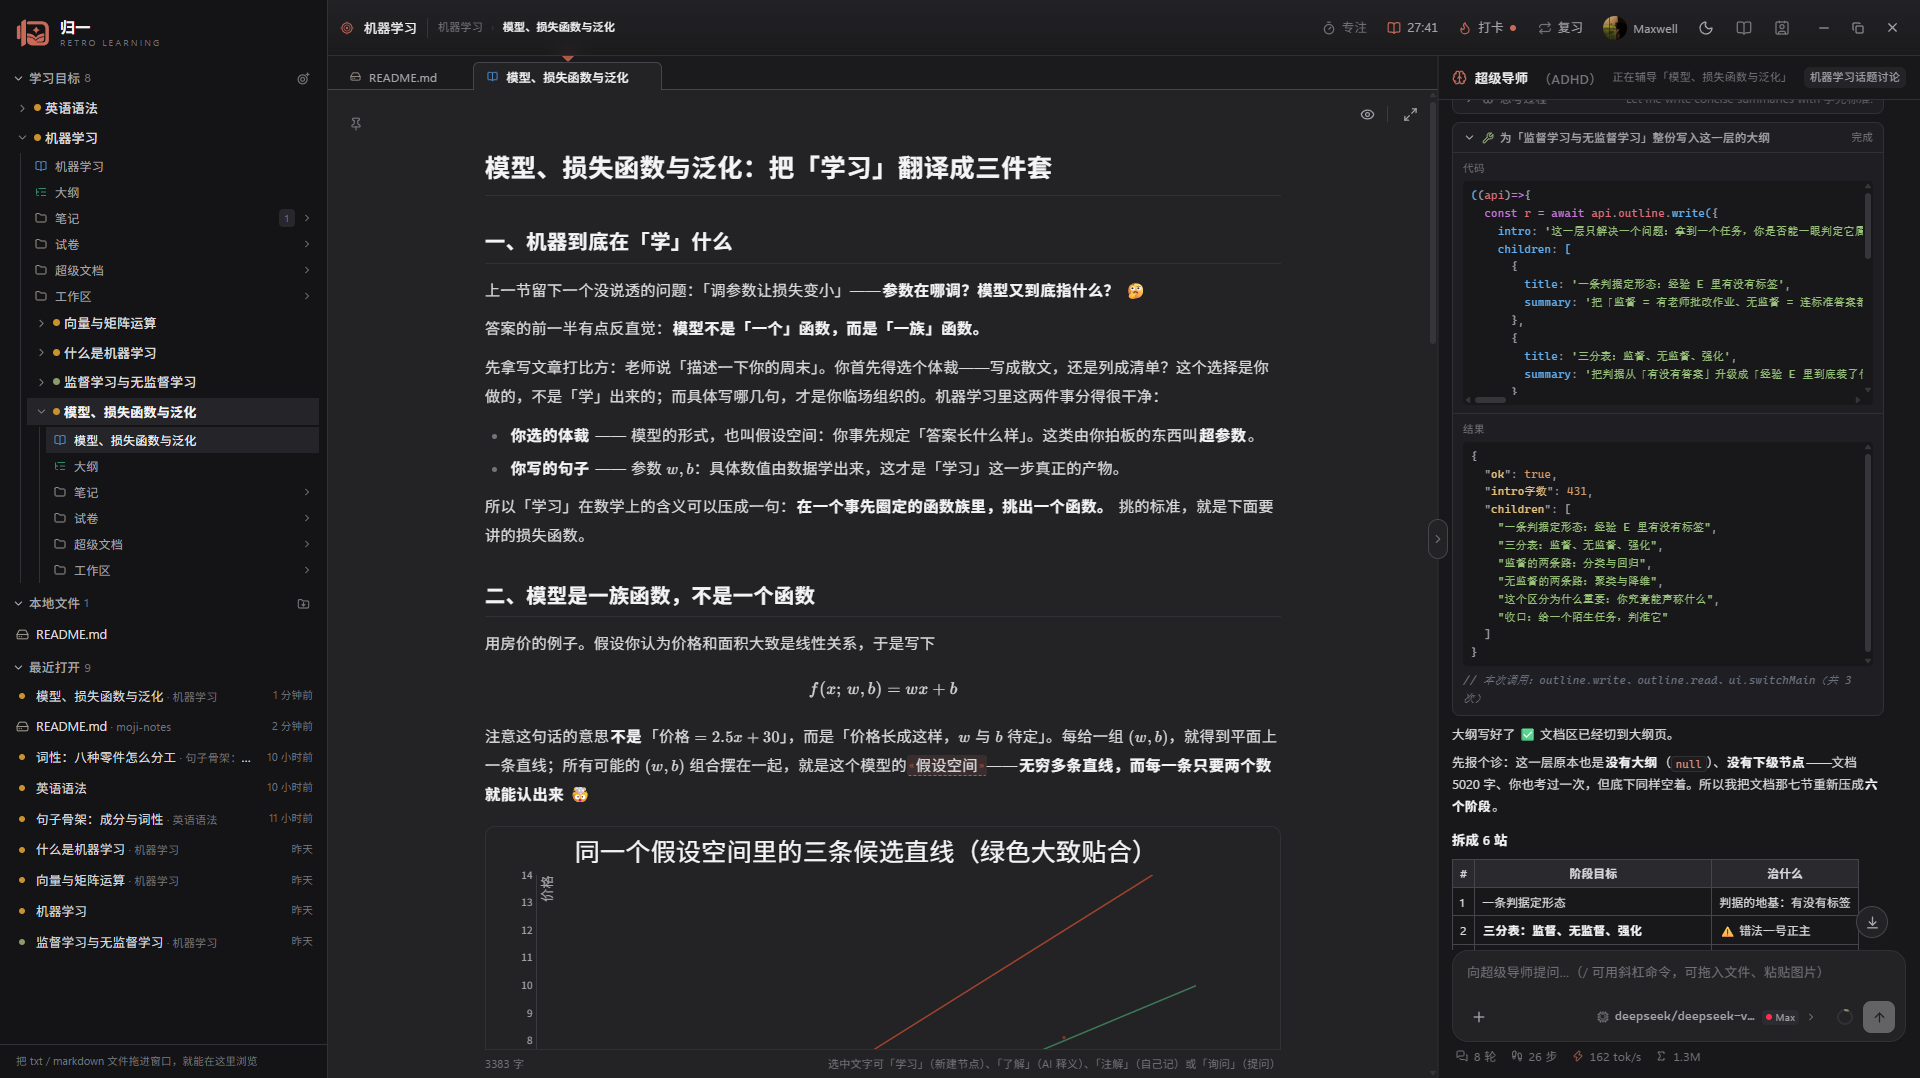
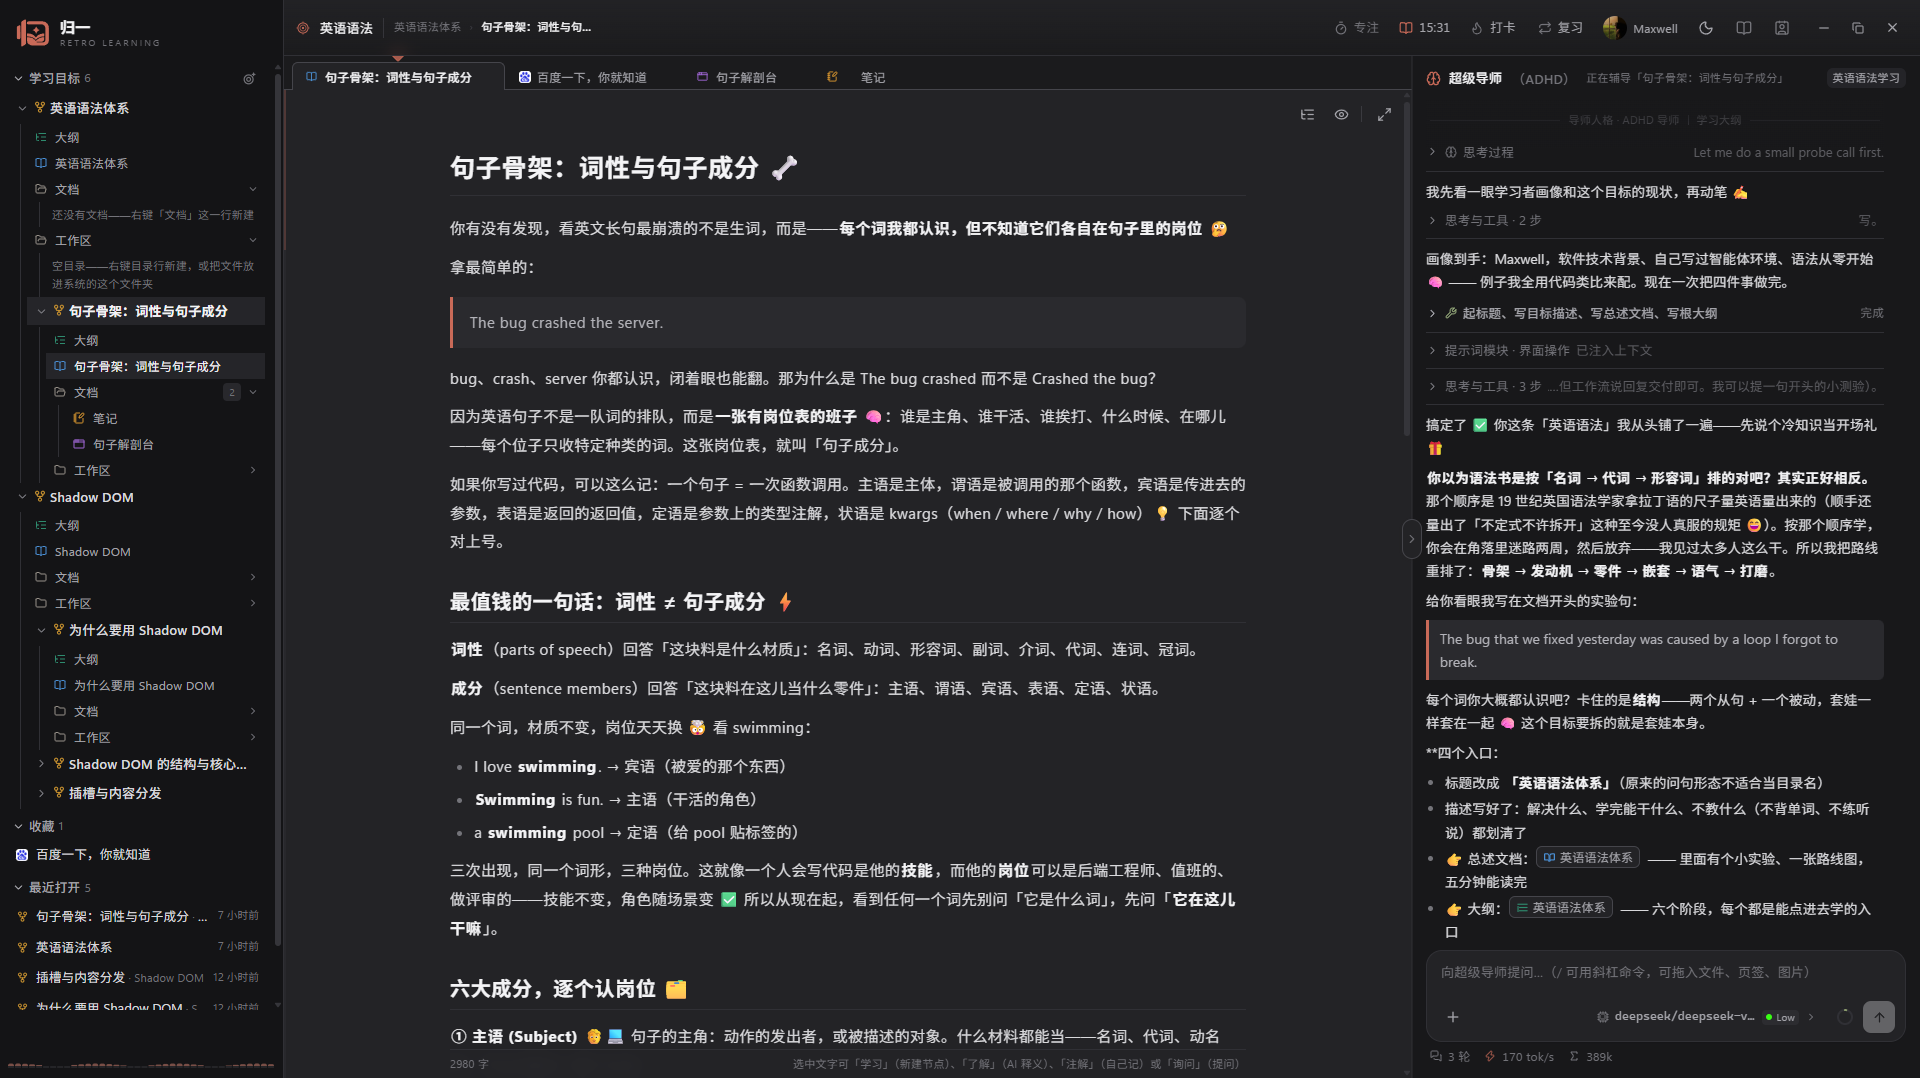
chore(release): v0.5.3 —— 版本号、发布说明与 hero 配图 (#43)
* docs: 更新 hero 配图

* chore(release): v0.5.3 版本号、发布说明与 hero 配图更新

---------

diff --git a/release-notes/v0.5.3.md b/release-notes/v0.5.3.md
@@ -1,0 +1,25 @@
+归一 Unyra v0.5.3 —— 界面打磨批次：对话面板更好用，右键菜单补齐，网页页签不再「吞」快捷键。
+
+## 对话面板
+
+- **Ctrl+Q 修正**：右侧栏装着导师时，Ctrl+Q 现在是真正的开/合切换；收起状态按它展开后，光标会自动落进导师的输入框（原来收着的栏接不到焦点，表现为「只能开不能收」）。
+- **消息定位条合并锚点**：相邻的工作流分界条在消息列表里本就融成一条横线，右侧定位条现在一簇只落一个点，不再一串点指着同一条线。
+- **消息区顶部渐隐**：内容滚出容器时在渐变里淡出，不再被上缘一刀切掉。
+- **「回到最新」按钮**：圆形改为方圆角，图标换成下回旋镖，背景更收敛。
+- 去掉输入框左下角的步数统计（轮数 / 速度 / token 保留）。
+
+## 快捷键与手势
+
+- **网页页签里应用快捷键恢复**：焦点在网页里时，Ctrl+S / Ctrl+F / Ctrl+H / Ctrl+E 与 F11（纯净阅读）现在都能用，不再被网页吃掉。
+- **网页里的右键横划换页签**恢复：文档区那套手势在网页页签里也能用了。
+- **文档区快速双击进入纯净阅读**：双击正文空白处（段落空白、行边距、正文下方）切换纯净阅读；双击在词上仍是选词，互不干扰。F11、右上角按钮与 Esc 退出照旧。
+
+## 右键菜单
+
+- **页签栏空白处右键**：打开新浏览器标签页 / 全部关闭。
+- **网页内右键**：复制 / 粘贴 / 刷新——原生菜单弹在网页里，替换 Electron 默认的英文菜单。
+- **主题按钮右键**：弹出完整主题列表（带色板与当前勾选），暖纸、石墨、纯黑这些扩展配色不用再绕去设置页；左键仍是三档快切。
+
+## 其他
+
+- 更新 hero 配图。
